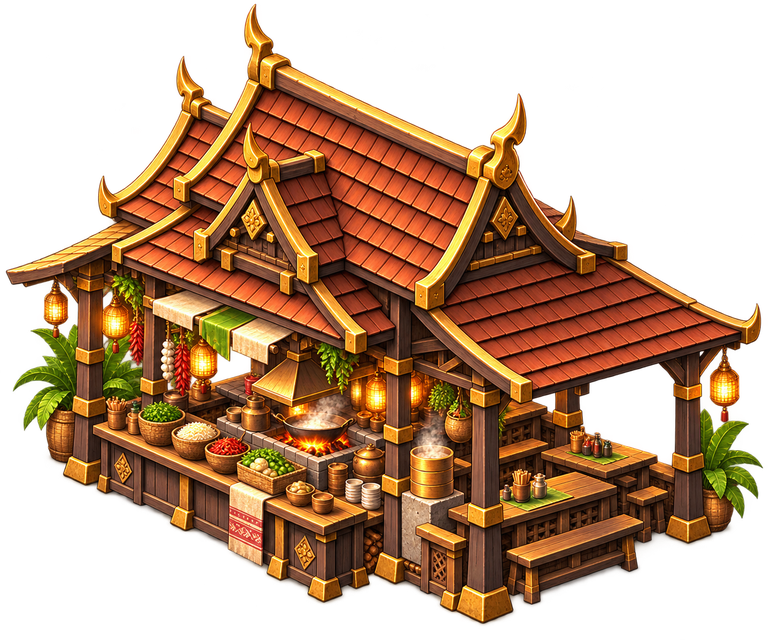
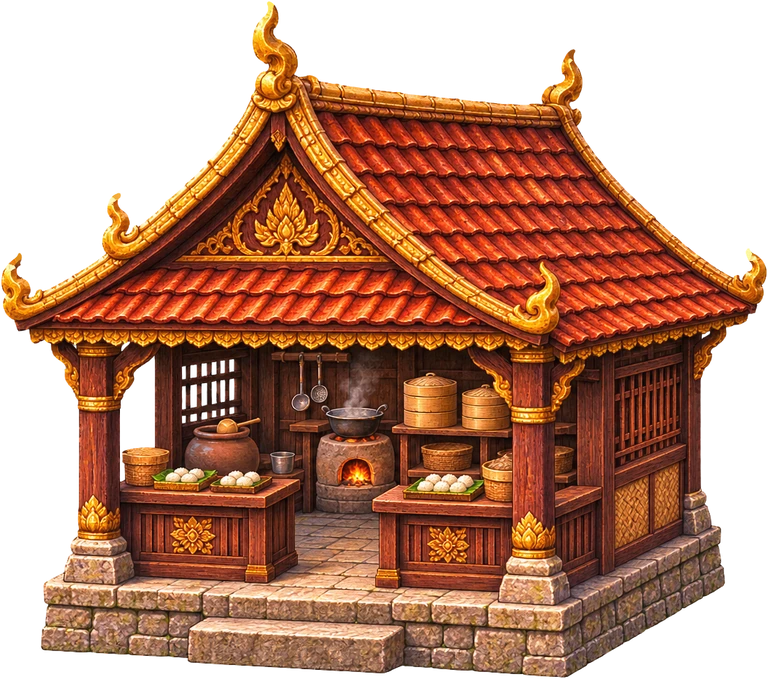
Z1 v5 FX: canteen uses owner picture #4 (fringe cleaned), same site and size
Halo pixels take the colour of the nearest solid pixel, alpha choked, cropped to the silhouette, 768 px wide.
Foundation foot (CANTEEN_ART_FOOT_Y.th) set to the lowest solid row.

diff --git a/src/canteen-art-layout.js b/src/canteen-art-layout.js
@@ -1,3 +1,4 @@
 // ART-CANTEEN: visual-only size; bottom of the painted foundation stays on the owner foot.
+// th: Z1-V5-FX owner picture #4 (scripts/build-canteen-th.py), cropped so the foundation's lowest row is the bottom edge.
 export const CANTEEN_ART_SCALE=1.08;
-export const CANTEEN_ART_FOOT_Y=Object.freeze({"th":0.9765625,"asia":0.9625,"west":0.959375,"cyberhell":0.9875});
+export const CANTEEN_ART_FOOT_Y=Object.freeze({"th":0.9970544918998527,"asia":0.9625,"west":0.959375,"cyberhell":0.9875});

diff --git a/scripts/build-canteen-th.py b/scripts/build-canteen-th.py
@@ -1,0 +1,35 @@
+#!/usr/bin/env python3
+"""Z1-V5-FX: the new Thai canteen (owner picture #4, 11_27_46 AM) -> img/food-art/canteen-th.webp
+
+  python3 scripts/build-canteen-th.py "<.../New Pic Map Zone1/ChatGPT Image Nov 4, 2026, 11_27_46 AM.png>"
+
+Only the matte is cleaned; the painted pixels inside the silhouette are untouched:
+  * pixels with alpha < 250 (the soft halo that carries the red / yellow fringe) take the colour of the nearest solid pixel
+  * alpha is choked a little (below 70 -> 0, 255 stays 255) so no halo line is left
+  * cropped to the silhouette (+2 px) and shrunk to 768 px wide (the old canteen-th.webp was 768x640)
+The foot of the stone foundation is the bottom row, so canteen-art-layout.js can place it by one number (CANTEEN_ART_FOOT_Y.th).
+"""
+import sys
+from pathlib import Path
+import numpy as np
+from PIL import Image
+from scipy.ndimage import distance_transform_edt
+
+src = Path(sys.argv[1])
+out = Path(__file__).resolve().parent.parent / 'img/food-art/canteen-th.webp'
+im = np.asarray(Image.open(src).convert('RGBA')).copy()
+a = im[..., 3].astype(np.float32)
+solid = a >= 250
+_, (iy, ix) = distance_transform_edt(~solid, return_indices=True)
+edge = ~solid
+im[edge, :3] = im[iy[edge], ix[edge], :3]
+a = np.clip((a - 70) / (255 - 70), 0, 1) * 255
+im[..., 3] = np.round(a).astype(np.uint8)
+img = Image.fromarray(im, 'RGBA')
+box = img.getchannel('A').point(lambda v: 255 if v > 8 else 0).getbbox()
+x0, y0, x1, y1 = box
+img = img.crop((max(0, x0 - 2), max(0, y0 - 2), min(img.width, x1 + 2), min(img.height, y1 + 2)))
+h = round(img.height * 768 / img.width)
+img = img.resize((768, h), Image.LANCZOS)
+img.save(out, quality=92, method=6)
+print(out, img.size, 'foundation foot at', 1 - 2 / img.height)
